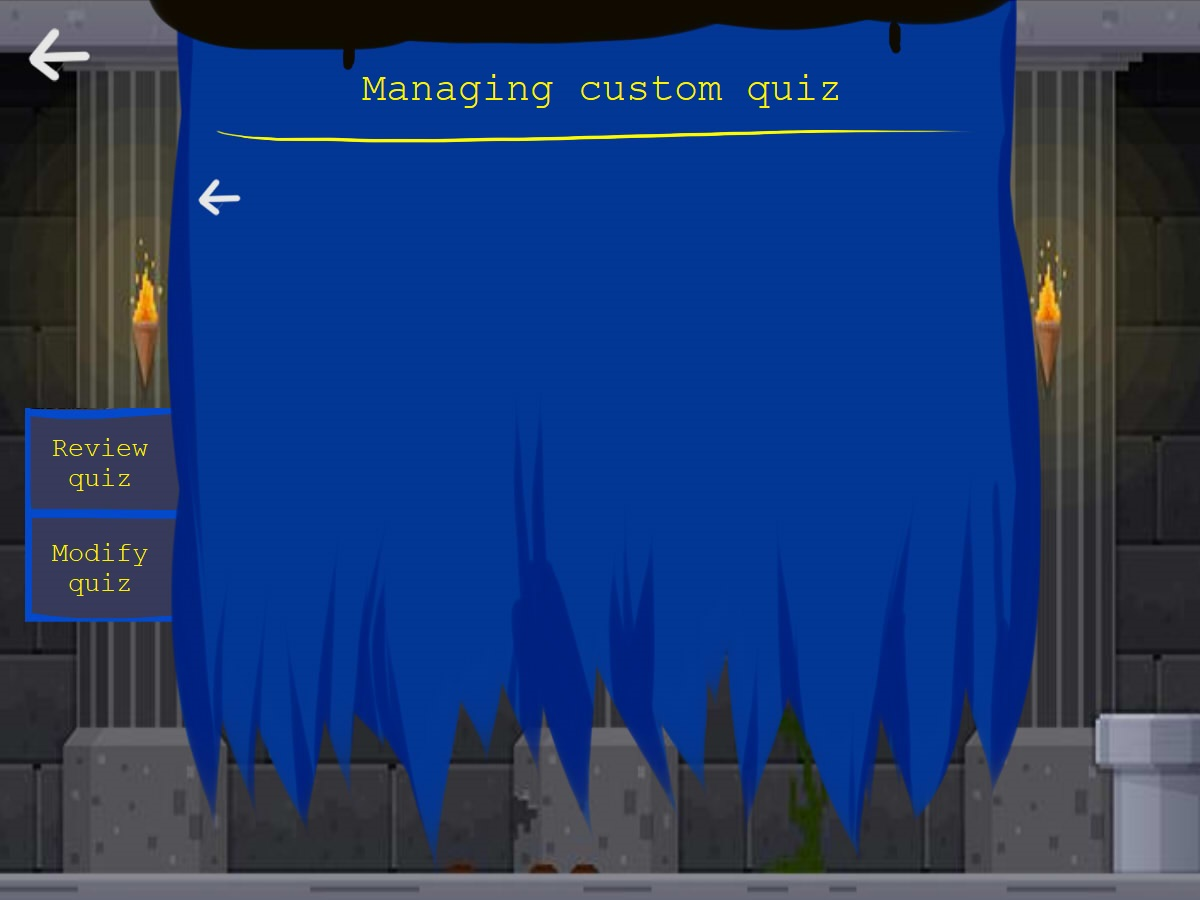
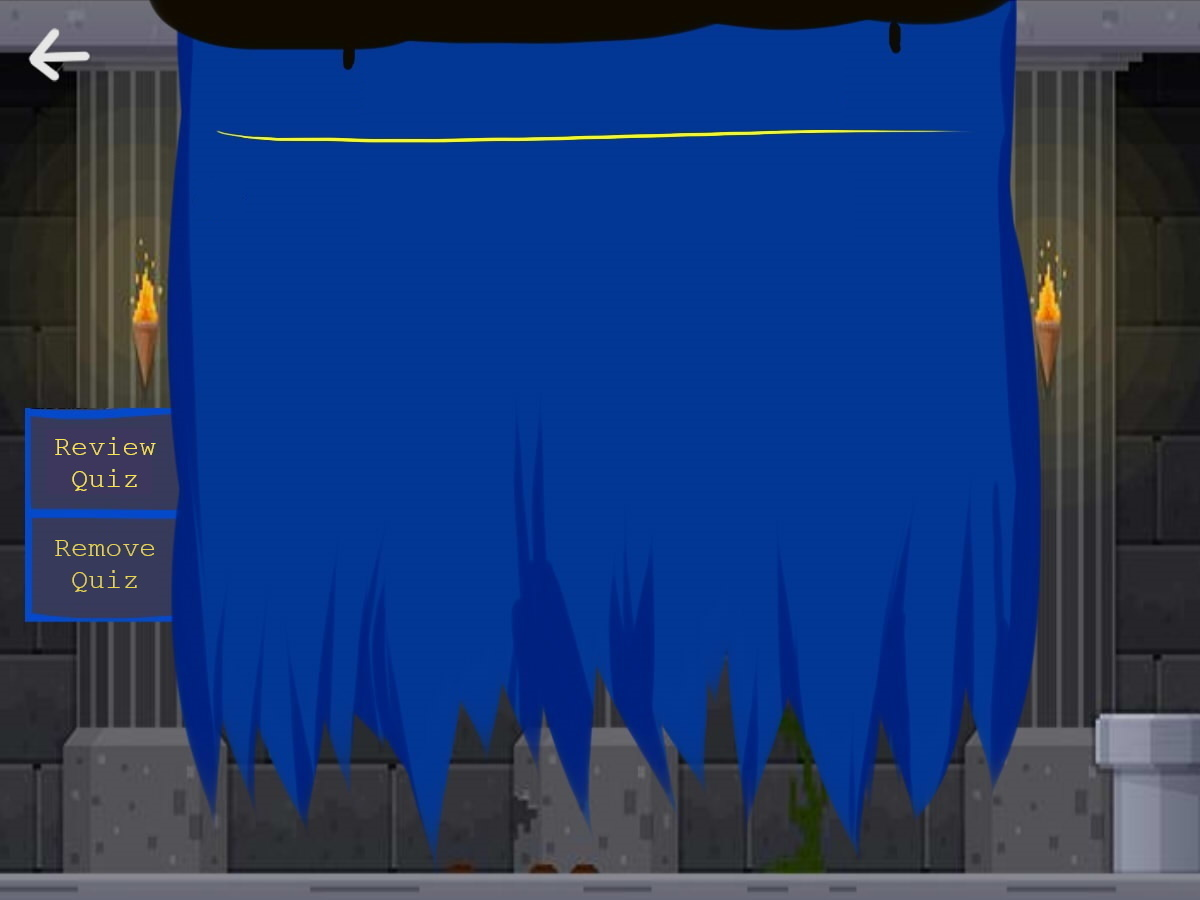
UI Changes

diff --git a/teacherCustomQuizLobby.py b/teacherCustomQuizLobby.py
@@ -60,9 +60,9 @@ class TeacherCustomQuizLobby:
         #Set back button
         self.backbutton1_position = pygame.Rect(28, 28, 61, 53)
         
-         #Set back button 2
-        self.backbutton2_rect = pygame.Rect(195, 178, 46, 38)
-        pygame.draw.rect(self.screen, (255, 255, 255), self.backbutton2_rect)
+        #Set back button 2
+        self.backbutton2_image = pygame.image.load("images/custom_quiz_lobby_back.jpg")
+        self.backbutton2_rect = self.backbutton2_image.get_rect().move(193, 177)
 
         # Set review custom quiz button
         self.reviewCustomQuiz_rect = pygame.Rect(26, 410, 144, 100)
@@ -71,11 +71,29 @@ class TeacherCustomQuizLobby:
         # Set modify custom quiz button
         self.modifyCustomQuiz_rect = pygame.Rect(32, 518, 139, 98)
         pygame.draw.rect(self.screen, (255, 255, 255), self.modifyCustomQuiz_rect)
-        
+
+        # Set header text
+        self.headerText = pygame.font.SysFont('Courier New', 45, True).render("Manage Custom Quiz", True, (247, 230, 82))
+        self.headerText_rect = self.headerText.get_rect().move(0, 70)
+        self.headerText_rect.centerx = 596
+
+    def changeHeader(self):
+        if self.displayReview:
+            self.headerText = pygame.font.SysFont('Courier New', 45, True).render("Review Custom Quiz", True, (247, 230, 82))
+        elif self.displayModify:
+            self.headerText = pygame.font.SysFont('Courier New', 45, True).render("Remove Custom Quiz", True, (247, 230, 82))
+        else:
+            self.headerText = pygame.font.SysFont('Courier New', 45, True).render("Manage Custom Quiz", True, (247, 230, 82))
+        self.headerText_rect = self.headerText.get_rect().move(0, 70)
+        self.headerText_rect.centerx = 596
+            
     # Student Custom Quiz Lobby
     def display(self):
         # Display background
         self.display_surface.blit(self.background1_image, self.background1_position)
+
+        # Display Header Text
+        self.display_surface.blit(self.headerText, self.headerText_rect)
     
         if (self.displayModify == False and self.displayReview == False):
             if (self.reload == True):
@@ -94,6 +112,9 @@ class TeacherCustomQuizLobby:
                 for j in self.customQuizObjList:
                     j.display()
         elif (self.displayReview == True and self.displayModify == False):
+            # Display Back Button
+            self.display_surface.blit(self.backbutton2_image, self.backbutton2_rect)
+            
             if (self.reload == True):
                 self.customQuizObjList = []
                 self.customQuiz = mysqlConnection.retrieveAllPendingCustomQuiz()
@@ -110,6 +131,9 @@ class TeacherCustomQuizLobby:
                 for j in self.customQuizObjList:
                     j.display()
         elif (self.displayReview == False and self.displayModify == True):
+            # Display Back Button
+            self.display_surface.blit(self.backbutton2_image, self.backbutton2_rect)
+            
             if (self.reload == True):
                 self.customQuizObjList = []
                 self.customQuiz = mysqlConnection.retrieveApprovedCustomQuiz()
@@ -135,17 +159,21 @@ class TeacherCustomQuizLobby:
             clicksound()
             self.displayReview = False
             self.displayModify = False
+            self.changeHeader()
             return 0
         if self.backbutton2_rect.collidepoint(pygame.mouse.get_pos()):
             clicksound()
             self.displayReview = False
             self.displayModify = False
+            self.changeHeader()
         if self.reviewCustomQuiz_rect.collidepoint(pygame.mouse.get_pos()):
             self.displayReview = True
             self.displayModify = False
+            self.changeHeader()
         if self.modifyCustomQuiz_rect.collidepoint(pygame.mouse.get_pos()):
             self.displayReview = False
             self.displayModify = True
+            self.changeHeader()
         if (not self.backbutton1_position.collidepoint(pygame.mouse.get_pos())
             or not self.backbutton2_rect.collidepoint(pygame.mouse.get_pos())
             or not self.reviewCustomQuiz_rect.collidepoint(pygame.mouse.get_pos())

diff --git a/studentCustomQuizLobby.py b/studentCustomQuizLobby.py
@@ -50,9 +50,9 @@ class StudentCustomQuizLobby:
         #Set back button 
         self.backbutton1_position = pygame.Rect(28, 28, 61, 53)
         
-         #Set back button 2
-        self.backbutton2_rect = pygame.Rect(195, 178, 46, 38)
-        pygame.draw.rect(self.screen, (255, 255, 255), self.backbutton2_rect)
+        #Set back button 2
+        self.backbutton2_image = pygame.image.load("images/custom_quiz_lobby_back.jpg")
+        self.backbutton2_rect = self.backbutton2_image.get_rect().move(193, 177)
 
         # Set create custom quiz button
         self.createCustomQuiz_rect = pygame.Rect(26, 410, 144, 100)
@@ -61,11 +61,27 @@ class StudentCustomQuizLobby:
         # Set pending custom quiz button
         self.pendingCustomQuiz_rect = pygame.Rect(32, 518, 139, 98)
         pygame.draw.rect(self.screen, (255, 255, 255), self.pendingCustomQuiz_rect)
-        
+
+        # Set header text
+        self.headerText = pygame.font.SysFont('Courier New', 45, True).render("Custom Quiz", True, (247, 230, 82))
+        self.headerText_rect = self.headerText.get_rect().move(0, 70)
+        self.headerText_rect.centerx = 596
+
+    def changeHeader(self):
+        if self.displayPending:
+            self.headerText = pygame.font.SysFont('Courier New', 45, True).render("Pending Custom Quiz", True, (247, 230, 82))
+        else:
+            self.headerText = pygame.font.SysFont('Courier New', 45, True).render("Custom Quiz", True, (247, 230, 82))
+        self.headerText_rect = self.headerText.get_rect().move(0, 70)
+        self.headerText_rect.centerx = 596
+    
     # Student Custom Quiz Lobby
     def display(self):
         # Display background
         self.display_surface.blit(self.background1_image, self.background1_position)
+
+        # Display header text
+        self.display_surface.blit(self.headerText, self.headerText_rect)
     
         if self.displayPending == False:
             if (self.reload == True):
@@ -84,6 +100,9 @@ class StudentCustomQuizLobby:
                 for j in self.customQuizObjList:
                     j.display()
         else:
+            # Display Back Button
+            self.display_surface.blit(self.backbutton2_image, self.backbutton2_rect)
+            
             if (self.reload == True):
                 self.customQuizPendingObjList = []
                 self.customQuiz = mysqlConnection.retrievePendingCustomQuiz(self.username)
@@ -112,15 +131,19 @@ class StudentCustomQuizLobby:
         if self.backbutton1_position.collidepoint(pygame.mouse.get_pos()):
             clicksound()
             self.displayPending = False
+            self.changeHeader()
             return 0
-        if self.backbutton2_rect.collidepoint(pygame.mouse.get_pos()):
+        if self.backbutton2_rect.collidepoint(pygame.mouse.get_pos()) and self.displayPending:
             clicksound()
             self.displayPending = False
+            self.changeHeader()
         if self.pendingCustomQuiz_rect.collidepoint(pygame.mouse.get_pos()):
+            clicksound()
             self.displayPending = True
-        
+            self.changeHeader()
         if self.createCustomQuiz_rect.collidepoint(pygame.mouse.get_pos()):
             self.displayPending = False
+            self.changeHeader()
             # Create create custom quiz Object
             self.createCustomQuizObj = createCustomQuiz.CreateCustomQuiz(self.username, self.user, self.screen, self.display_surface)
             self.createCustomQuizObj.loadAssets()

diff --git a/registerPage.py b/registerPage.py
@@ -64,7 +64,6 @@ class Register:
         self.input_boxes = [self.username_box1, self.email_box2, self.password_box3]
 
     def display(self):
-        
         clock = pygame.time.Clock()        
         while not self.done:
             for event in pygame.event.get():
@@ -87,6 +86,9 @@ class Register:
             pygame.display.update()
             clock.tick(30)
             
+        for box in self.input_boxes:
+            box.resetText()
+            
     # Register Page Actions
     def action(self):
         # Register button is selected
@@ -103,8 +105,9 @@ class Register:
                 return True
             else:
                 self.popup.fail(self.errorMessage)
-                for box in self.input_boxes:
-                    box.resetText()
+                if self.errorMessage != "Please fill in all fields":
+                    for box in self.input_boxes:
+                        box.resetText()
                 return False
          
         # Back button is selected
@@ -119,7 +122,8 @@ class Register:
         passCheck = False
         self.errorMessage = ""
         if(len(username) <= 0 or len(password) <= 0 or len(email) <=0):
-            if(len(username) <= 0):
+            self.errorMessage = "Please fill in all fields"
+            '''if(len(username) <= 0):
                 if(len(self.errorMessage) <= 0):
                     self.errorMessage = "Username field not filled\n"
                 else:
@@ -133,7 +137,7 @@ class Register:
                 if(len(self.errorMessage) <= 0):
                     self.errorMessage = "Email field not filled\n"
                 else:
-                    self.errorMessage += "Email field not filled\n"
+                    self.errorMessage += "Email field not filled\n"'''
         else:
             # Check for duplicate username
             duplicatedUsername = False
@@ -156,9 +160,9 @@ class Register:
                         break
             if(duplicatedUsername):
                 if(len(self.errorMessage) <= 0):
-                    self.errorMessage = username + " is already taken\n"
-                else:
-                    self.errorMessage += username + " is already taken\n" 
+                    self.errorMessage = username + " is already taken"
+                '''else:
+                    self.errorMessage += username + " is already taken\n"'''
             else:
                 passCheck = True
         return passCheck

diff --git a/popup.py b/popup.py
@@ -32,7 +32,7 @@ class PopUp:
         self.headerBox_rect = pygame.Rect(324, 343, 589, 40)
 
         # Message box dimensions
-        self.messageBox_rect = pygame.Rect(339, 387, 557, 220)
+        self.messageBox_rect = pygame.Rect(339, 387, 559, 220)
 
         # Popup box image
         self.popupbox_image = pygame.image.load("images/popup.png")
@@ -131,6 +131,7 @@ class PopUp:
         fontHeight = font.size("Tg")[1]
 
         while text:
+            wrap = False
             i = 1
 
             # determine if the row of text will be outside our area
@@ -142,15 +143,23 @@ class PopUp:
                 i += 1
 
             # if we've wrapped the text, then adjust the wrap to the last word      
-            if i < len(text): 
+            if i < len(text):
                 i = text.rfind(" ", 0, i) + 1
+                wrap = True
 
             # render the line and blit it to the surface
-            if bkg:
-                image = font.render(text[:i], 1, color, bkg)
-                image.set_colorkey(bkg)
+            if wrap:
+                if bkg:
+                    image = font.render(text[:i-1], 1, color, bkg)
+                    image.set_colorkey(bkg)
+                else:
+                    image = font.render(text[:i-1], aa, color)
             else:
-                image = font.render(text[:i], aa, color)
+                if bkg:
+                    image = font.render(text[:i], 1, color, bkg)
+                    image.set_colorkey(bkg)
+                else:
+                    image = font.render(text[:i], aa, color)
 
             image_rect = image.get_rect()
             image_rect.center =((self.messageBox_rect.left+self.messageBox_rect.right)/2, y+image_rect.height*2)

diff --git a/popupyesno.py b/popupyesno.py
@@ -33,7 +33,7 @@ class PopUpYesNo:
         self.headerBox_rect = pygame.Rect(324, 343, 586, 40)
 
         # Message box dimensions
-        self.messageBox_rect = pygame.Rect(324, 387, 557, 220)
+        self.messageBox_rect = pygame.Rect(339, 387, 559, 220)
 
         # Popup box image
         self.popupbox_image = pygame.image.load("images/popup.png")
@@ -140,6 +140,7 @@ class PopUpYesNo:
         fontHeight = font.size("Tg")[1]
 
         while text:
+            wrap = False
             i = 1
 
             # determine if the row of text will be outside our area
@@ -153,13 +154,21 @@ class PopUpYesNo:
             # if we've wrapped the text, then adjust the wrap to the last word      
             if i < len(text): 
                 i = text.rfind(" ", 0, i) + 1
-
+                wrap = True
+                
             # render the line and blit it to the surface
-            if bkg:
-                image = font.render(text[:i], 1, color, bkg)
-                image.set_colorkey(bkg)
+            if wrap:
+                if bkg:
+                    image = font.render(text[:i-1], 1, color, bkg)
+                    image.set_colorkey(bkg)
+                else:
+                    image = font.render(text[:i-1], aa, color)
             else:
-                image = font.render(text[:i], aa, color)
+                if bkg:
+                    image = font.render(text[:i], 1, color, bkg)
+                    image.set_colorkey(bkg)
+                else:
+                    image = font.render(text[:i], aa, color)
 
             image_rect = image.get_rect()
             image_rect.center =((self.messageBox_rect.left+self.messageBox_rect.right)/2, y+image_rect.height*2)

diff --git a/teacherModifyCustomQuizObjAsset.py b/teacherModifyCustomQuizObjAsset.py
@@ -49,11 +49,11 @@ class TeacherModifyCustomQuizObjAsset:
         pygame.draw.rect(self.display_surface, (255, 255, 255), self.selectQuiz_rect)
         
         # Set Rating Text
-        self.ratingtext1 = pygame.font.SysFont('Courier New', 30).render(str(self.rating), True, (0, 0, 0))
+        self.ratingtext1 = pygame.font.SysFont('Courier New', 30).render(str(self.rating), True, (247, 230, 82))
         self.ratingtext1_position = [250,y_axis_offset + self.y_axis + 20]
         
         # Set Quiz Name Text
-        self.quizNametext1 = pygame.font.SysFont('Courier New', 30).render(self.quizName, True, (0, 0, 0))
+        self.quizNametext1 = pygame.font.SysFont('Courier New', 30).render(self.quizName, True, (247, 230, 82))
         self.quizNametext1_position = [302,y_axis_offset + self.y_axis + 20]
         
         # Popup box iamge

diff --git a/teacherReviewCustomQuizObjAsset.py b/teacherReviewCustomQuizObjAsset.py
@@ -48,11 +48,11 @@ class TeacherReviewCustomQuizObjAsset:
         pygame.draw.rect(self.display_surface, (255, 255, 255), self.reject_rect)
         
         # Set Rating Text
-        self.ratingtext1 = pygame.font.SysFont('Courier New', 30).render(str(self.rating), True, (0, 0, 0))
+        self.ratingtext1 = pygame.font.SysFont('Courier New', 30).render(str(self.rating), True, (247, 230, 82))
         self.ratingtext1_position = [250,y_axis_offset + self.y_axis + 20]
         
         # Set Quiz Name Text
-        self.quizNametext1 = pygame.font.SysFont('Courier New', 30).render(self.quizName, True, (0, 0, 0))
+        self.quizNametext1 = pygame.font.SysFont('Courier New', 30).render(self.quizName, True, (247, 230, 82))
         self.quizNametext1_position = [305,y_axis_offset + self.y_axis + 20]
         
         # Popup box iamge

diff --git a/customQuizObjAsset.py b/customQuizObjAsset.py
@@ -48,11 +48,11 @@ class CustomQuizObjAsset:
         pygame.draw.rect(self.display_surface, (255, 255, 255), self.startQuiz_rect)
         
         # Set Rating Text
-        self.ratingtext1 = pygame.font.SysFont('Courier New', 30).render(str(self.rating), True, (0, 0, 0))
+        self.ratingtext1 = pygame.font.SysFont('Courier New', 30).render(str(self.rating), True, (247, 230, 82))
         self.ratingtext1_position = [250,y_axis_offset + self.y_axis + 20]
         
         # Set Quiz Name Text
-        self.quizNametext1 = pygame.font.SysFont('Courier New', 30).render(self.quizName, True, (0, 0, 0))
+        self.quizNametext1 = pygame.font.SysFont('Courier New', 30).render(self.quizName, True, (247, 230, 82))
         self.quizNametext1_position = [305,y_axis_offset + self.y_axis + 20]
         
         # Popup box iamge

diff --git a/customQuizPendingObjAsset.py b/customQuizPendingObjAsset.py
@@ -39,11 +39,11 @@ class CustomQuizPendingObjAsset:
         self.typeOfQuiz = "View Pending Quiz"
     
         # Set Rating Text
-        self.ratingtext1 = pygame.font.SysFont('Courier New', 30).render("0", True, (0, 0, 0))
+        self.ratingtext1 = pygame.font.SysFont('Courier New', 30).render("0", True, (247, 230, 82))
         self.ratingtext1_position = [250,y_axis_offset + self.y_axis + 20]
         
         # Set Quiz Name Text
-        self.quizNametext1 = pygame.font.SysFont('Courier New', 30).render(self.quizName, True, (0, 0, 0))
+        self.quizNametext1 = pygame.font.SysFont('Courier New', 30).render(self.quizName, True, (247, 230, 82))
         self.quizNametext1_position = [305,y_axis_offset + self.y_axis + 20]
         
         # Popup box iamge

diff --git a/friends.py b/friends.py
@@ -120,7 +120,7 @@ class Friends:
             if(ableToBattle == False):
                 self.popup.fail("Failed to initiate battle, already have an existing battle with " + self.usernameSelected)
             else:
-                if self.popupyesno.confirmation("You will take the challenge quiz first then send the challenge over to the target. Continue?"):
+                if self.popupyesno.confirmation("Quiz have to be taken before challenging the player. Continue?"):
                     self.quizIndexToUse = 0
                     self.storeChallengeQues = mysqlConnection.retrieveChallengeQuizData()
                     if (len(self.storeChallengeQues) > 0):
